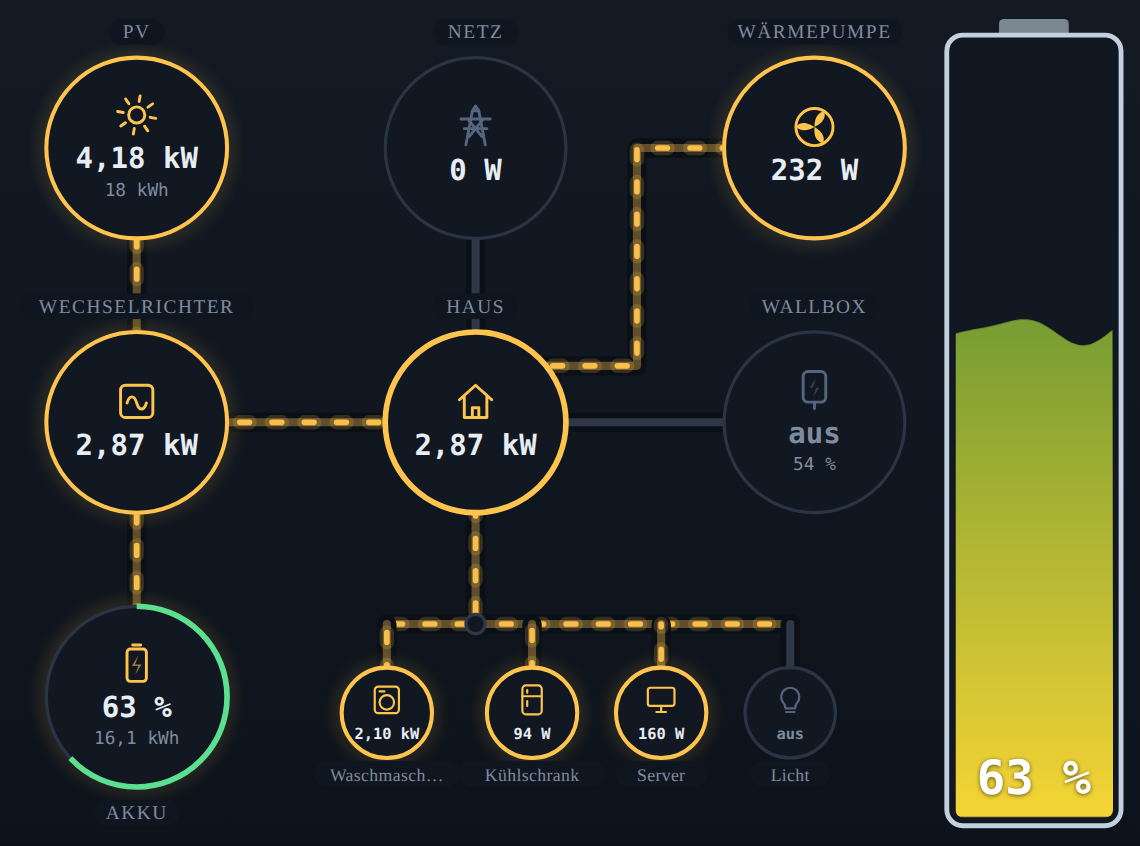
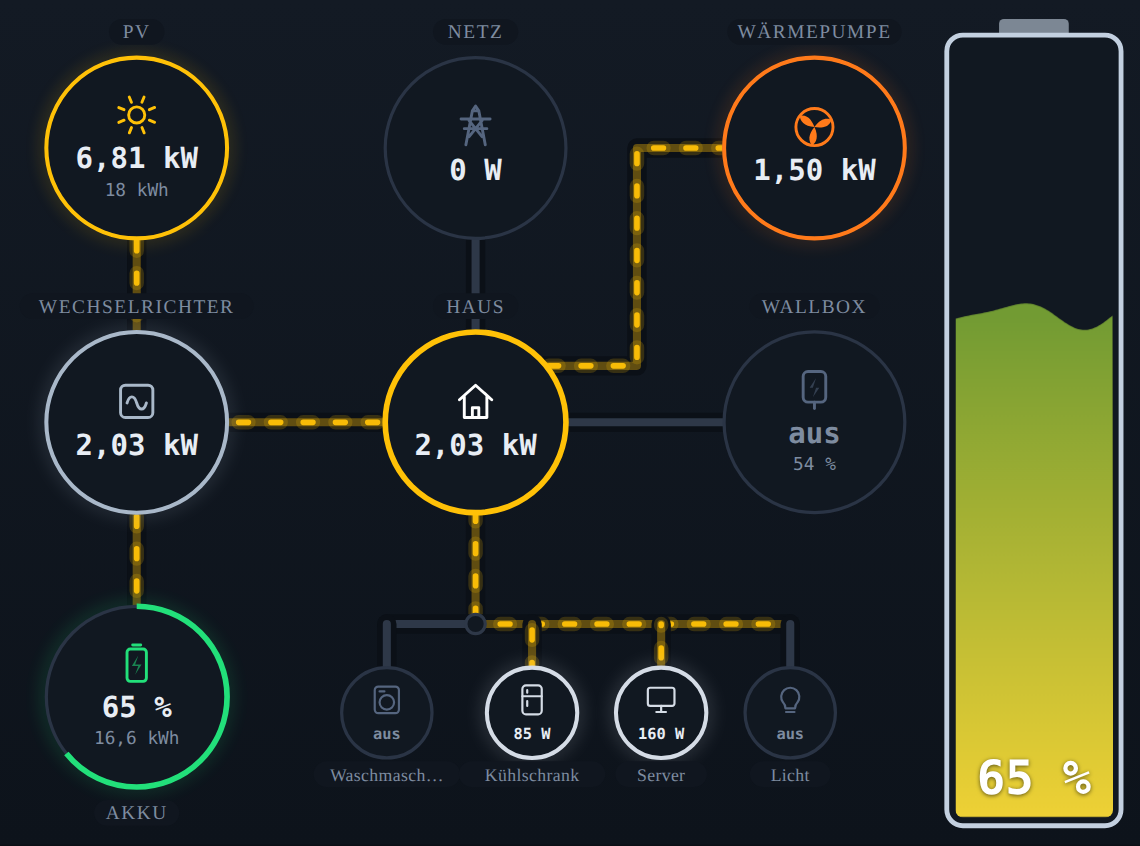
fix color

diff --git a/dist/energy-flow-card-by-lutarym.js b/dist/energy-flow-card-by-lutarym.js
@@ -24,17 +24,41 @@ const EDITOR_TAG = "energy-flow-card-by-lutarym-editor";
 
 /* ------------------------------------------------------------------ *
  *  Farben
- *  Es gibt genau drei Farben, eine je Quelle: PV gelb, Netz blau,
- *  Akku gruen. Jede Leitung und jeder Ring traegt die Farbe der Quelle,
- *  aus der der Strom gerade stammt, egal wohin er fliesst. Laedt etwa
- *  das Netz den Akku, ist der ganze Weg vom Netz bis zum Akku blau.
- *  Kommt der Strom aus zwei Quellen, wechseln sich beide Farben ab.
+ *  Jedes Geraet hat seine eigene, feste Farbe fuer Ring und Symbol.
+ *  Die Leitungen dagegen tragen die Farbe der Quelle, aus der der Strom
+ *  gerade stammt: PV gelb, Netz blau, Akku gruen. Laedt etwa das Netz
+ *  den Akku, ist der ganze Weg vom Netz bis zum Akku blau. Kommt der
+ *  Strom aus zwei Quellen, wechseln sich beide Farben ab.
  * ------------------------------------------------------------------ */
+// Jede Farbe folgt der Sache, die das Geraet tut:
+//   PV gelb wie die Sonne, Netz blau wie im Energie-Dashboard von
+//   Home Assistant, Akku gruen wie ein voller Ladestand, Waermepumpe
+//   orange fuer Waerme, Wallbox tuerkis fuer E-Mobilitaet, Wechselrichter
+//   silbern wie ein Technikgeraet, Haus und Verbraucher weiss und hellgrau,
+//   denn sie nehmen nur Strom ab.
 const FARBE = {
-  pv: "#FFC44D",
-  netz: "#4D9BFF",
-  akku: "#5BE08F",
+  pv: "#FFC107",
+  netz: "#3D8BFF",
+  akku: "#22E07A",
 };
+
+// Eigene Farben der Geraete, die keine Quelle sind.
+const GERAET = {
+  wr: "#A9B8C9",
+  haus: "#FFFFFF",
+  wp: "#FF7A1A",
+  wallbox: "#00D7D2",
+};
+
+// Vorgabe fuer die weiteren Verbraucher, je Verbraucher aenderbar.
+const VERBRAUCHER_FARBEN = ["#D5DCE6"];
+
+/** Farbe aus der Konfiguration: Text wie #RRGGBB oder Liste [r, g, b]. */
+function farbeAus(wert, ersatz) {
+  if (Array.isArray(wert) && wert.length === 3) return `rgb(${wert.map((x) => Number(x) || 0).join(",")})`;
+  if (typeof wert === "string" && wert.trim()) return wert.trim();
+  return ersatz;
+}
 
 // Zweite Farbe nur zeigen, wenn diese Quelle mindestens so viel beitraegt.
 const MISCH_SCHWELLE = 0.2;
@@ -790,13 +814,16 @@ class LutarymEnergyFlowCard extends HTMLElement {
     if (this._config.demo) {
       const sp = this._sp();
       return this._demo
-        ? this._demo.verbraucher.map((v) => ({ ...v, name: v.name[sp] || v.name.en }))
+        ? this._demo.verbraucher.map((v, i) => ({
+          ...v, name: v.name[sp] || v.name.en, farbe: VERBRAUCHER_FARBEN[i % VERBRAUCHER_FARBEN.length],
+        }))
         : [];
     }
     return (this._config.consumers || []).map((v, i) => ({
       id: v.entity,
       name: v.name || this._friendly(v.entity) || `${this._t("verbraucher")} ${i + 1}`,
       symbol: SYMBOLE[v.icon] ? v.icon : "steckdose",
+      farbe: farbeAus(v.color, VERBRAUCHER_FARBEN[i % VERBRAUCHER_FARBEN.length]),
     }));
   }
 
@@ -1282,7 +1309,8 @@ class LutarymEnergyFlowCard extends HTMLElement {
     // Bezug ist blau. Bei Einspeisung traegt das Netz die Farbe dessen,
     // was eingespeist wird, also meist gelb fuer PV.
     const einspeiseMix = mischung([[FARBE.pv, f.pvNetz], [FARBE.akku, f.akkuNetz]]);
-    const netzFarbe = einspeisen ? (einspeiseMix.haupt || FARBE.pv) : FARBE.netz;
+    // Der Netzring bleibt blau, die Leitung zeigt, was eingespeist wird.
+    const netzFarbe = FARBE.netz;
     this._setText("netz-v", this._wText(netzW));
     // Ob bezogen oder eingespeist wird, zeigt die Laufrichtung der Leitung.
     this._setText("netz-s2", zusatz("grid_secondary"));
@@ -1306,10 +1334,9 @@ class LutarymEnergyFlowCard extends HTMLElement {
     this._setText("akku-s2", zusatz("battery_secondary"));
     // Der Ladestandsbogen ist immer akkugruen, wie alles, was aus dem Akku kommt.
     this._setBogen("akku-soc", 0, m.soc === null ? 0 : m.soc / 100, FARBE.akku);
-    // Beim Laden leuchtet der Akku in der Farbe der ladenden Quelle.
+    // Woher der Ladestrom kommt, zeigt die Leitung. Der Akku bleibt gruen.
     const ladeMix = mischung([[FARBE.pv, f.pvAkku], [FARBE.netz, f.netzAkku]]);
-    this._setAktiv("akku", an(m.laden) || an(m.entladen),
-      an(m.laden) ? ladeMix : FARBE.akku);
+    this._setAktiv("akku", an(m.laden) || an(m.entladen), FARBE.akku);
     const akkuRing = this._el("ring-akku");
     if (akkuRing) akkuRing.classList.remove("is-on");
     this._setPuls("akku-blitz", an(m.laden), 1.4);
@@ -1340,19 +1367,13 @@ class LutarymEnergyFlowCard extends HTMLElement {
     const hausIcon = this._el("icon-haus");
     // Was das Haus gerade bezieht, in den Farben der Quellen.
     const hausMix = mischung([[FARBE.pv, f.pvHaus], [FARBE.akku, f.akkuHaus], [FARBE.netz, f.netzHaus]]);
-    if (hausIcon) hausIcon.style.color = an(m.haus) ? hausMix.haupt || "" : "";
+    if (hausIcon) hausIcon.style.color = an(m.haus) ? GERAET.haus : "";
 
     /* ---- Wechselrichter ---- */
     this._zeige("dev-wr", m.hatWr);
     this._setText("wr-v", this._wText(m.wr === null ? null : Math.abs(m.wr)));
     this._setText("wr-s", zusatz("inverter_secondary"));
-    // Der Wechselrichter traegt die Farbe dessen, was gerade durch ihn fliesst.
-    const wrMix = (m.wr || 0) >= 0
-      ? mischung([[FARBE.pv, f.pvHaus + f.pvNetz], [FARBE.akku, f.akkuHaus + f.akkuNetz]])
-      : mischung([[FARBE.netz, f.netzAkku]]);
-    // PV, die direkt in den Akku geht, laeuft auch durch den Wechselrichter.
-    if (!wrMix.haupt && an(m.pv)) wrMix.haupt = FARBE.pv;
-    this._setAktiv("wr", an(Math.abs(m.wr || 0)) || an(m.pv), wrMix);
+    this._setAktiv("wr", an(Math.abs(m.wr || 0)) || an(m.pv), GERAET.wr);
 
     /* ---- Leitungen ---- */
     this._zeige("ltg-pv_wr", m.hatPv);
@@ -1392,7 +1413,7 @@ class LutarymEnergyFlowCard extends HTMLElement {
       this._setText("wp-v", this._verbraucherText(this._id("heatpump"), m.wp, an(m.wp)));
       this._dimm("wp-v", !an(m.wp));
       this._setText("wp-s", zusatz("heatpump_secondary"));
-      this._setAktiv("wp", an(m.wp), hausMix);
+      this._setAktiv("wp", an(m.wp), GERAET.wp);
       this._setDreh("wp-rotor", an(m.wp) ? 90 + 400 * anteil(m.wp, 4000) : 0);
       this._setLeitung("bus_wp", zeigeWp ? m.wp : null, hausMix);
 
@@ -1400,7 +1421,7 @@ class LutarymEnergyFlowCard extends HTMLElement {
       this._setText("wb-v", this._verbraucherText(this._id("wallbox"), m.wb, an(m.wb)));
       this._dimm("wb-v", !an(m.wb));
       this._setText("wb-s", zusatz("wallbox_secondary"));
-      this._setAktiv("wb", an(m.wb), hausMix);
+      this._setAktiv("wb", an(m.wb), GERAET.wallbox);
       this._setPuls("wb-blitz", an(m.wb), 1.6);
       if (!an(m.wb)) {
         const blitz = this._el("wb-blitz");
@@ -1420,7 +1441,7 @@ class LutarymEnergyFlowCard extends HTMLElement {
         this._setLeitung(`exa${i}`, v.w, hausMix);
         this._setText(`ex${i}-v`, this._verbraucherText(v.id, v.w, aktiv));
         this._dimm(`ex${i}-v`, !aktiv);
-        this._setAktiv(`ex${i}`, aktiv, hausMix);
+        this._setAktiv(`ex${i}`, aktiv, v.farbe);
       });
       this._setLeitung("bus_ex", exSumme, hausMix);
       this._setLeitung("ex_l", m.verbraucher[0] ? m.verbraucher[0].w : null, hausMix);
@@ -1852,6 +1873,7 @@ const EDITOR_TEXTE = {
     c_entity: "Verbraucher {n}: Leistung",
     c_name: "Verbraucher {n}: Name",
     c_icon: "Verbraucher {n}: Symbol",
+    c_color: "Verbraucher {n}: Farbe",
     sek_pv: "PV",
     sek_netz: "Netz",
     sek_akku: "Akku",
@@ -1923,6 +1945,7 @@ const EDITOR_TEXTE = {
     c_entity: "Consumer {n}: power",
     c_name: "Consumer {n}: name",
     c_icon: "Consumer {n}: symbol",
+    c_color: "Consumer {n}: colour",
     sek_pv: "Solar",
     sek_netz: "Grid",
     sek_akku: "Battery",
@@ -2007,7 +2030,8 @@ class LutarymEnergyFlowCardEditor extends HTMLElement {
         { name: `c${i}_entity`, ort: "c", feld: "entity", idx: i, selector: LEISTUNG },
         { name: `c${i}_name`, ort: "c", feld: "name", idx: i, selector: TEXT },
         { name: `c${i}_icon`, ort: "c", feld: "icon", idx: i,
-          selector: { select: { mode: "dropdown", options: symbole } } }
+          selector: { select: { mode: "dropdown", options: symbole } } },
+        { name: `c${i}_color`, ort: "c", feld: "color", idx: i, selector: { color_rgb: {} } }
       );
     }
     return [
@@ -2081,7 +2105,7 @@ class LutarymEnergyFlowCardEditor extends HTMLElement {
   }
 
   _label(feld) {
-    const m = /^c(\d)_(entity|name|icon)$/.exec(feld.name);
+    const m = /^c(\d)_(entity|name|icon|color)$/.exec(feld.name);
     if (m) return this._et(`c_${m[2]}`).replace("{n}", String(Number(m[1]) + 1));
     return this._et(feld.name);
   }

diff --git a/README.de.md b/README.de.md
@@ -10,7 +10,7 @@ Animierte Lovelace Karte für Home Assistant. Sie zeigt den Energiefluss zwische
 
 - Aufbau wie eine echte Anlage: PV und Akku am Wechselrichter, der Wechselrichter speist ins Haus, das Netz hängt am Haus
 - Wärmepumpe, Wallbox und bis zu vier weitere Verbraucher an einer eigenen Verteilung
-- Drei Farben, eine je Quelle: PV gelb, Netz blau, Akku grün. Jede Leitung und jeder Ring zeigt, woher der Strom stammt, etwa blau vom Netz bis in den Akku, wenn ein dynamischer Tarif den Akku lädt. Strom aus zwei Quellen zeigt beide Farben im Wechsel
+- Jedes Gerät hat seine eigene Farbe. Die Leitungen zeigen, woher der Strom stammt: PV gelb, Netz blau, Akku grün, etwa blau vom Netz bis in den Akku, wenn ein dynamischer Tarif den Akku lädt. Strom aus zwei Quellen zeigt beide Farben im Wechsel
 - Das Tempo der Striche folgt der Leistung
 - Minimalistisch: runde Knoten mit kleinen Symbolen, leuchtender Ring bei Betrieb
 - Sonnenstrahlen und Lüfter der Wärmepumpe drehen mit der Leistung, das Wallbox Symbol pulsiert beim Laden
@@ -81,7 +81,7 @@ consumers:
 
 ### Weitere Verbraucher
 
-Bis zu vier Einträge unter `consumers`, jeweils mit `entity`, `name` und `icon`. Ein Verbraucher bleibt sichtbar, wenn seine Entität ausfällt, und zeigt dann `n. v.`.
+Bis zu vier Einträge unter `consumers`, jeweils mit `entity`, `name`, `icon` und optional `color` (`#RRGGBB` oder `[r, g, b]`). Ein Verbraucher bleibt sichtbar, wenn seine Entität ausfällt, und zeigt dann `n. v.`.
 Symbole: `steckdose`, `waschmaschine`, `spuelmaschine`, `herd`, `kuehlschrank`, `computer`, `licht`, `auto`.
 
 ### Optionen

diff --git a/README.md b/README.md
@@ -10,7 +10,7 @@ Animated Lovelace card for Home Assistant that shows the energy flow between sol
 
 - Built like a real system: solar and battery on the inverter, inverter feeds the home, grid connected to the home
 - Heat pump, wallbox and up to four further consumers on their own distribution line
-- Three colours, one per source: solar yellow, grid blue, battery green. Every line and ring shows where its power comes from, for example blue all the way from the grid to the battery when a dynamic tariff charges the battery. Power from two sources shows both colours alternating
+- Every device has its own colour. The lines show where the power comes from: solar yellow, grid blue, battery green, for example blue all the way from the grid to the battery when a dynamic tariff charges the battery. Power from two sources shows both colours alternating
 - Speed of the running lines follows the power
 - Minimal design: round nodes with small symbols, glowing ring when active
 - Sun rays and heat pump fan turn with the power, wallbox symbol pulses while charging
@@ -81,7 +81,7 @@ consumers:
 
 ### Further consumers
 
-Up to four entries under `consumers`, each with `entity`, `name` and `icon`. A consumer stays visible when its entity is unavailable and shows `n/a`.
+Up to four entries under `consumers`, each with `entity`, `name`, `icon` and optional `color` (`#RRGGBB` or `[r, g, b]`). A consumer stays visible when its entity is unavailable and shows `n/a`.
 Symbols: `steckdose`, `waschmaschine`, `spuelmaschine`, `herd`, `kuehlschrank`, `computer`, `licht`, `auto`.
 
 ### Options
